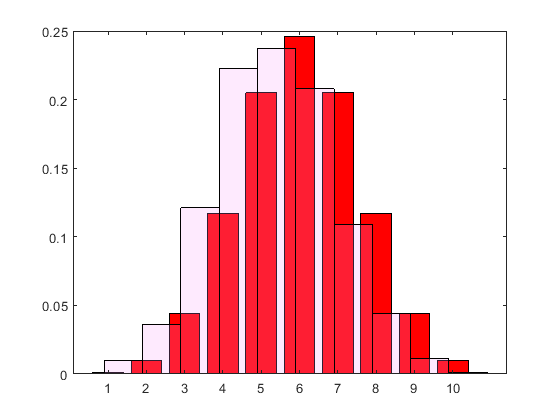
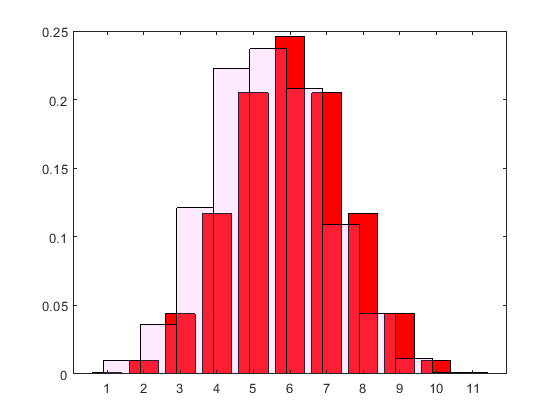
Add files via upload

Changed region(s): [[0.2125, 0.0619, 0.85, 0.9286], [0.5768, 0.8976, 0.6071, 0.9286], [0.3036, 0.8976, 0.3339, 0.9286]]

diff --git a/labmat3/lab4odp.html b/labmat3/lab4odp.html
@@ -6,7 +6,7 @@
    <!--
 This HTML was auto-generated from MATLAB code.
 To make changes, update the MATLAB code and republish this document.
-      --><title>lab4odp</title><meta name="generator" content="MATLAB 9.4"><link rel="schema.DC" href="http://purl.org/dc/elements/1.1/"><meta name="DC.date" content="2018-05-21"><meta name="DC.source" content="lab4odp.m"><style type="text/css">
+      --><title>lab4odp</title><meta name="generator" content="MATLAB 9.4"><link rel="schema.DC" href="http://purl.org/dc/elements/1.1/"><meta name="DC.date" content="2018-05-22"><meta name="DC.source" content="lab4odp.m"><style type="text/css">
 html,body,div,span,applet,object,iframe,h1,h2,h3,h4,h5,h6,p,blockquote,pre,a,abbr,acronym,address,big,cite,code,del,dfn,em,font,img,ins,kbd,q,s,samp,small,strike,strong,sub,sup,tt,var,b,u,i,center,dl,dt,dd,ol,ul,li,fieldset,form,label,legend,table,caption,tbody,tfoot,thead,tr,th,td{margin:0;padding:0;border:0;outline:0;font-size:100%;vertical-align:baseline;background:transparent}body{line-height:1}ol,ul{list-style:none}blockquote,q{quotes:none}blockquote:before,blockquote:after,q:before,q:after{content:'';content:none}:focus{outine:0}ins{text-decoration:none}del{text-decoration:line-through}table{border-collapse:collapse;border-spacing:0}
 
 html { min-height:100%; margin-bottom:1px; }
@@ -66,7 +66,7 @@ table td { padding:7px 5px; text-align:left; vertical-align:top; border:1px soli
 
 
 
-  </style></head><body><div class="content"><h2>Contents</h2><div><ul><li><a href="#1">zadanie J</a></li><li><a href="#2">zadanie L</a></li></ul></div><h2 id="1">zadanie J</h2><pre class="codeoutput">
+  </style></head><body><div class="content"><h2>Contents</h2><div><ul><li><a href="#1">zadanie J</a></li><li><a href="#2">zadanie K</a></li><li><a href="#3">zadanie L.1</a></li><li><a href="#4">zadanie L.2</a></li><li><a href="#5">zadanie L.3</a></li><li><a href="#6">zadanie L.4</a></li></ul></div><h2 id="1">zadanie J</h2><pre class="codeoutput">
 stats = 
 
   struct with fields:
@@ -82,27 +82,107 @@ p =
 
     0.0255
 
-</pre><h2 id="2">zadanie L</h2><img vspace="5" hspace="5" src="lab4odp_01.png" alt=""> <img vspace="5" hspace="5" src="lab4odp_02.png" alt=""> <p class="footer"><br><a href="https://www.mathworks.com/products/matlab/">Published with MATLAB&reg; R2018a</a><br></p></div><!--
+</pre><h2 id="2">zadanie K</h2><pre class="codeoutput">
+ans =
+
+        1000
+
+
+statsK = 
+
+  struct with fields:
+
+    chi2stat: 27.4772
+          df: 26
+       edges: [1&times;28 double]
+           O: [1&times;27 double]
+           E: [1&times;27 double]
+
+
+pK =
+
+    0.3847
+
+</pre><h2 id="3">zadanie L.1</h2><img vspace="5" hspace="5" src="lab4odp_01.png" alt=""> <h2 id="4">zadanie L.2</h2><img vspace="5" hspace="5" src="lab4odp_02.png" alt=""> <h2 id="5">zadanie L.3</h2><pre class="codeoutput">
+statsL3 = 
+
+  struct with fields:
+
+    chi2stat: 4.2750
+          df: 8
+       edges: [1&times;10 double]
+           O: [10 36 121 223 237 208 109 44 12]
+           E: [1&times;9 double]
+
+
+pL3 =
+
+    0.8315
+
+</pre><h2 id="6">zadanie L.4</h2><pre class="codeoutput">
+statsL4 = 
+
+  struct with fields:
+
+    chi2stat: 4.2751
+          df: 8
+       edges: [1&times;10 double]
+           O: [10 36 121 223 237 208 109 44 12]
+           E: [1&times;9 double]
+
+
+pL4 =
+
+    0.8315
+
+</pre><p class="footer"><br><a href="https://www.mathworks.com/products/matlab/">Published with MATLAB&reg; R2018a</a><br></p></div><!--
 ##### SOURCE BEGIN #####
 %% zadanie J
 X1=lab4.X1; X2=lab4.X2;
-[h,p,stats] = chi2gof([1 2 3 4 5 6 7],'freq',X1,'expected',X2,'ctrs',[1:7],'nparams',0);
-stats
+bins=1:7;
+[h,p,stats] = chi2gof(bins,'Ctrs',bins,'frequency',X1,'Expected',X2);
+%[h,p,stats] = chi2gof([1:10],'freq',X1,'expected',X2,'ctrs',[1:10],'nparams',0);
+stats 
 p
-% zadanie K
-%XK=lab4S1.k1+lab4S1.k2+lab4S1.k3+lab4S1.k4+lab4S1.k5+lab4S1.k6+lab4S1.k7+lab4S1.k8+lab4S1.k9+lab4S1.k10;
-%histogram(XK)
-%XX = [10:1:60];
+%% zadanie K
+XK=lab4S1.k1+lab4S1.k2+lab4S1.k3+lab4S1.k4+lab4S1.k5+lab4S1.k6+lab4S1.k7+lab4S1.k8+lab4S1.k9+lab4S1.k10;
+bins=10:60;
+freqXK=hist(XK,bins); 
+sum(freqXK)
+nk=length(freqXK);
+XKnte=1000*kostkiS1.pr;
+[hK,pK,statsK] = chi2gof(bins,'Ctrs',bins,'frequency',freqXK,'expected',XKnte);
+statsK
+pK
+%XX = [10:.1:60];
 %normXK=1000*normpdf(XX,35,5*sqrt(7/6));
-%[hK,pK,statsK] = chi2gof([10:60],'freq',XK,'expected',normXK,'ctrs',[10:60],'nparams',0);
-%% zadanie L
+%plot(normXK)
+%[hK,pK,statsK] = chi2gof([1:10],'freq',freqXK,'expected',XK,'ctrs',[1:10],'nparams',0);
+%% zadanie L.1
 XL=lab4S2.m1+lab4S2.m2+lab4S2.m3+lab4S2.m4+lab4S2.m5+lab4S2.m6+lab4S2.m7+lab4S2.m8+lab4S2.m9+lab4S2.m10;
 histogram(XL)
+
+%% zadanie L.2
 hxl=figure; histogram(XL); 
 %histogram(X,10,'Normalization','pdf','FaceColor',[1,1,1]);
-binXL=binopdf([0:9],10,1/2);
+binXL=binopdf([0:10],10,1/2);
 bar(binXL,'r'); hold on
 h=histogram(XL,10,'Normalization','pdf','FaceColor',[1,0.6,1]); hold on
 h.FaceAlpha = 0.2;
+
+%% zadanie L.3
+binsL=0:10;
+freqXL=hist(XL, binsL);
+binompdfXL=1000*[0.000977, 0.009766, 0.043945, 0.117188, 0.205078, 0.246094, 0.205078, 0.117188, 0.043945, 0.009766, 0.000977];
+[hL,pL3,statsL3] = chi2gof(binsL,'Ctrs', binsL,'freq',freqXL,'expected',binompdfXL);
+statsL3
+pL3
+
+%% zadanie L.4
+Tpd=1000*[0.000976563; 0.009765625; 0.043945313; 0.1171875; 0.205078125; 0.24609375; 0.205078125; 0.1171875; 0.043945313; 0.009765625; 0.000976563];
+[hL4,pL4,statsL4] = chi2gof(binsL,'Ctrs', binsL,'freq',freqXL,'expected', Tpd);
+statsL4
+pL4
+
 ##### SOURCE END #####
 --></body></html>
